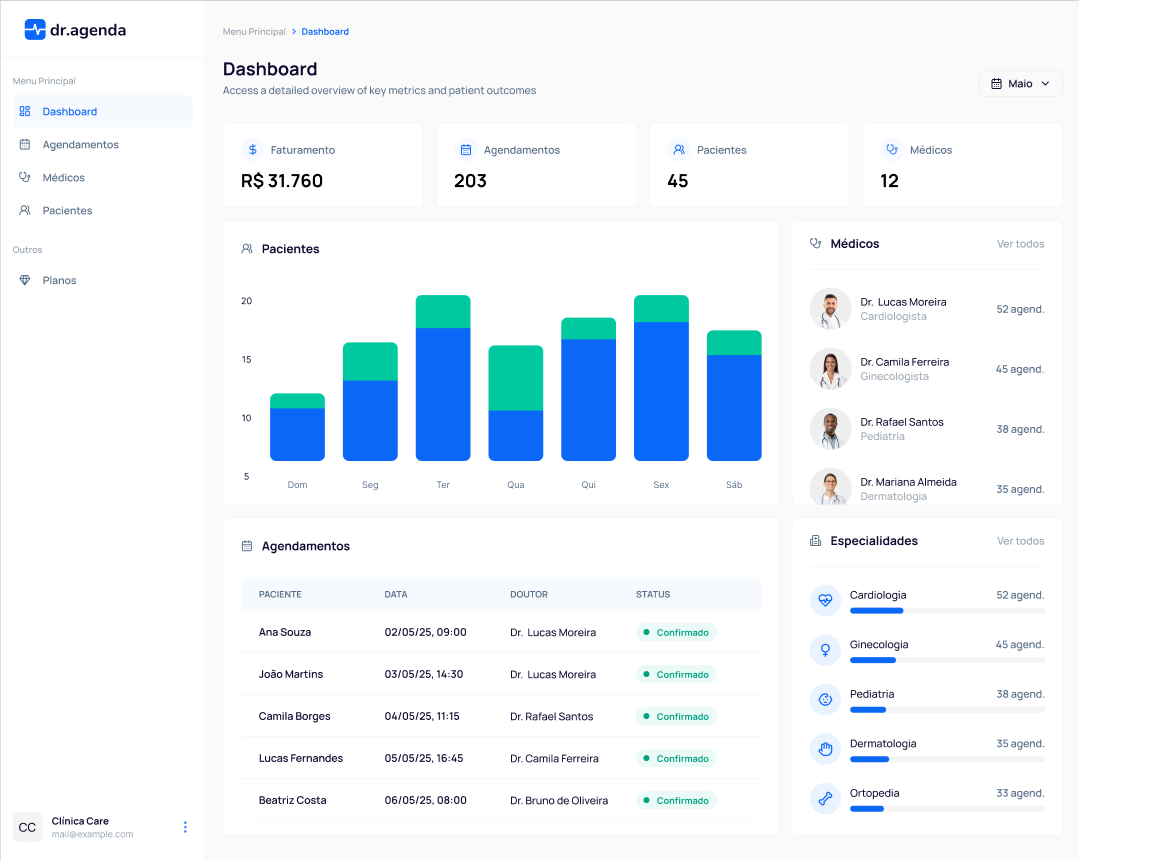
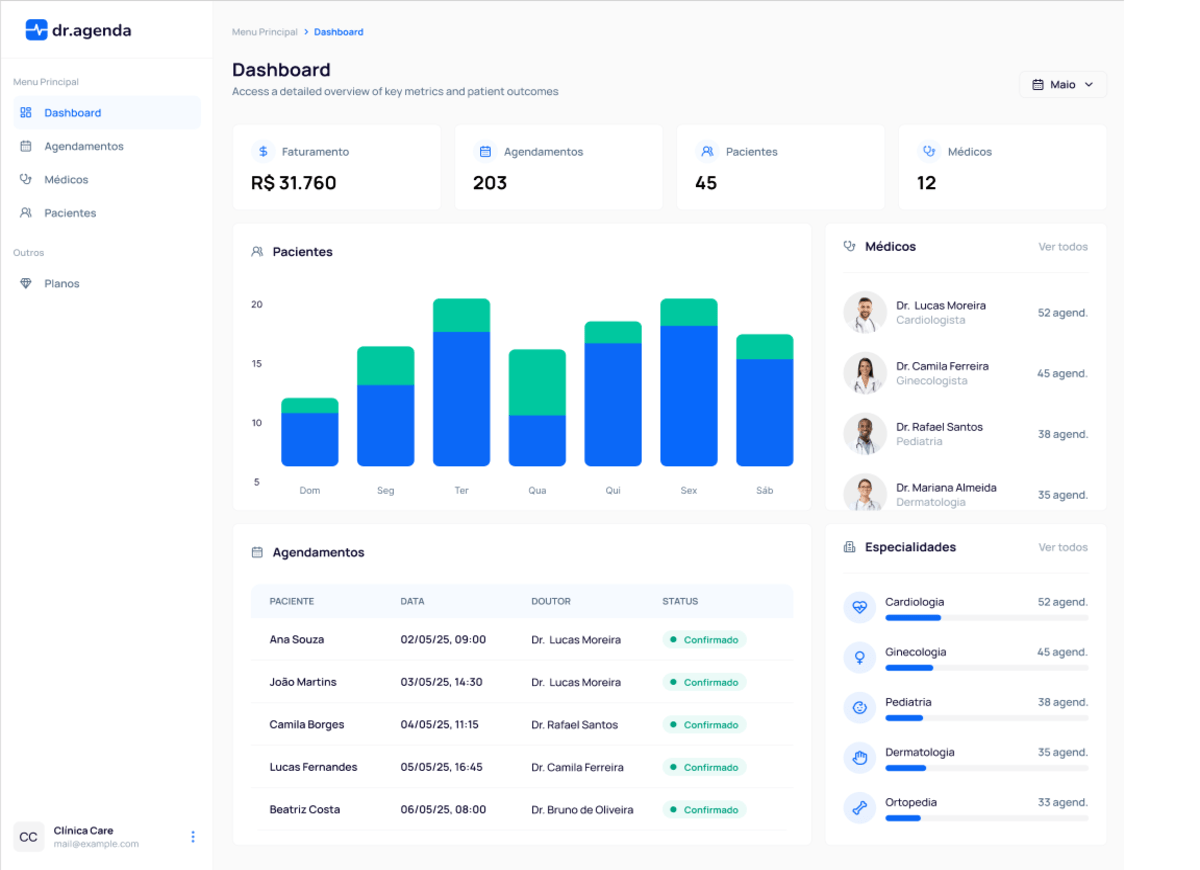
docs: update README and screenshots styling

diff --git a/README.md b/README.md
@@ -1,4 +1,3 @@
-
 ## Título do Projeto
 
 APLICATIVO DE GESTION DE AGENDAMENTOS PARA CLINICAS
@@ -32,16 +31,16 @@ Backend e Banco de Dados: A camada de backend utiliza recursos do Next.js, como 
 <div style="overflow-x: auto;">
     <table style="width: 100%;">
         <tr>
-            <td style="width: 50%;"><img src="./public/screenshots/dashboard.png" alt="Dashboard" style="width: 100%; height: auto; max-height: 420px; object-fit: cover;" /></td>
-            <td style="width: 50%;"><img src="./public/screenshots/agendamentos.png" alt="Agendamentos" style="width: 100%; height: auto; max-height: 420px; object-fit: cover;" /></td>
+            <td style="width: 50%;"><img src="./public/screenshots/dashboard.png" alt="Dashboard" style="width: 100%; height: auto; object-fit: cover;" /></td>
+            <td style="width: 50%;"><img src="./public/screenshots/agendamentos.png" alt="Agendamentos" style="width: 100%; height: auto; object-fit: cover;" /></td>
         </tr>
         <tr>
-            <td style="width: 50%;"><img src="./public/screenshots/medicos.png" alt="Medicos" style="width: 100%; height: auto; max-height: 420px; object-fit: cover;" /></td>
-            <td style="width: 50%;"><img src="./public/screenshots/pacientes.png" alt="Pacientes" style="width: 100%; height: auto; max-height: 420px; object-fit: cover;" /></td>
+            <td style="width: 50%;"><img src="./public/screenshots/medicos.png" alt="Medicos" style="width: 100%; height: auto; object-fit: cover;" /></td>
+            <td style="width: 50%;"><img src="./public/screenshots/pacientes.png" alt="Pacientes" style="width: 100%; height: auto; object-fit: cover;" /></td>
         </tr>
         <tr>
-            <td style="width: 50%;"><img src="./public/screenshots/planos.png" alt="Planos" style="width: 100%; height: auto; max-height: 420px; object-fit: cover;" /></td>
-            <td style="width: 50%;"><img src="./public/screenshots/acount.png" alt="Planos" style="width: 100%; height: auto; max-height: 420px; object-fit: cover;" /></td>
+            <td style="width: 50%;"><img src="./public/screenshots/planos.png" alt="Planos" style="width: 100%; height: auto; object-fit: cover;" /></td>
+            <td style="width: 50%;"><img src="./public/screenshots/acount.png" alt="Planos" style="width: 100%; height: auto; object-fit: cover;" /></td>
         </tr>
     </table>
 </div>
@@ -126,4 +125,3 @@ npm run dev
 ## Licença
 
 Este projeto está licenciado sob a Licença MIT - consulte o arquivo [LICENSE.md](LICENSE.md) para obter detalhes
-
